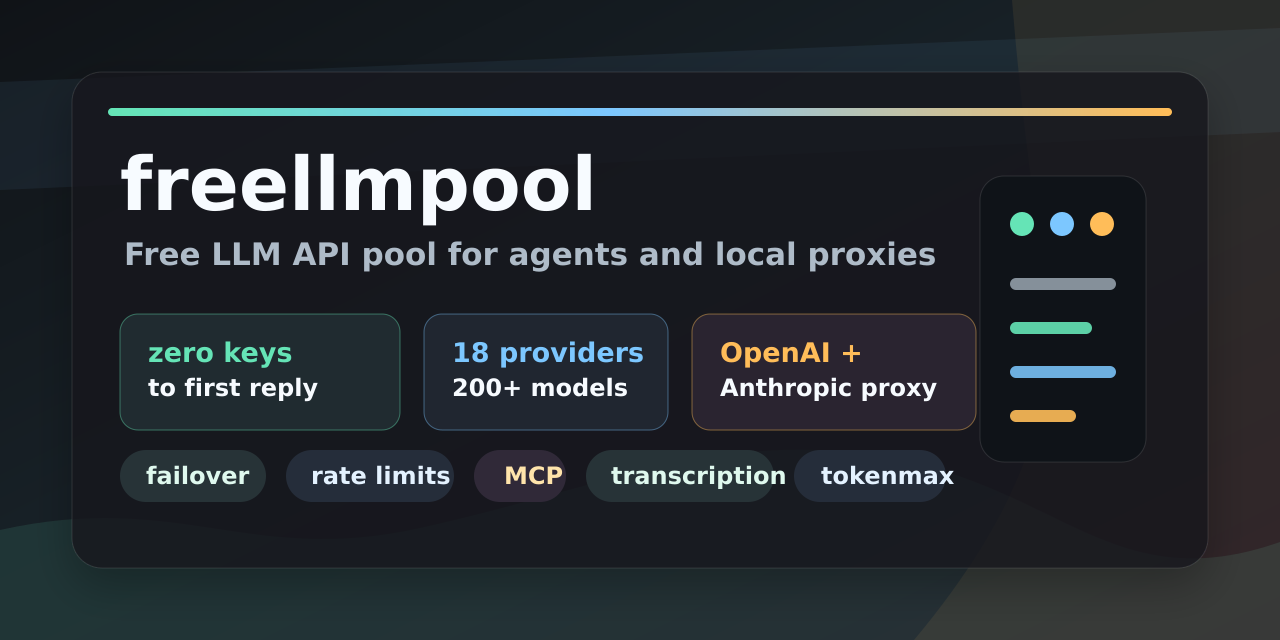
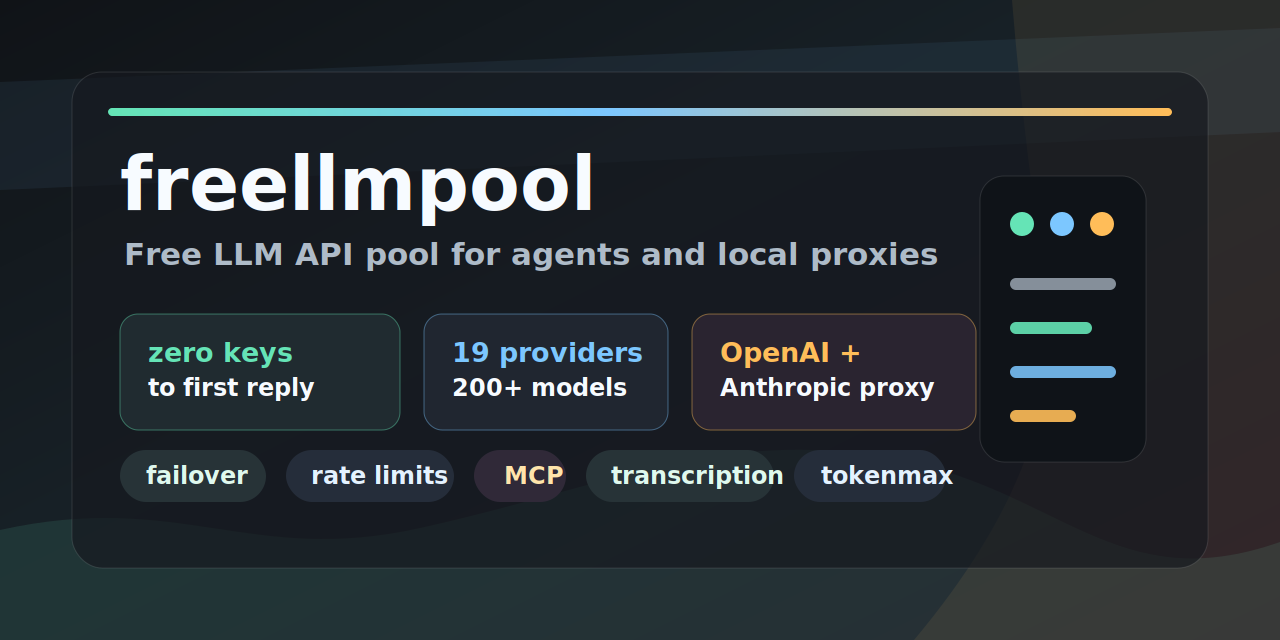
Audit and refresh free provider catalog

diff --git a/docs/index.html b/docs/index.html
@@ -3,11 +3,11 @@
 <head>
 <meta charset="utf-8">
 <meta name="viewport" content="width=device-width, initial-scale=1">
-<title>freellmpool — free OpenAI-compatible LLM API gateway (pool 18 free tiers, no key)</title>
-<meta name="description" content="freellmpool pools the free tiers of 18 LLM providers (Groq, Cerebras, NVIDIA, Gemini, OpenRouter, Cloudflare, Mistral, Cohere and more) behind one OpenAI-compatible endpoint. Free, open-source, pip-installable; works with no API key. CLI, Python library, local proxy, and MCP server with automatic failover.">
+<title>freellmpool — free OpenAI-compatible LLM API gateway (pool 19 free tiers, no key)</title>
+<meta name="description" content="freellmpool pools the free tiers of 19 LLM providers (Groq, Cerebras, NVIDIA, Gemini, OpenRouter, Cloudflare, Mistral, Cohere and more) behind one OpenAI-compatible endpoint. Free, open-source, pip-installable; works with no API key. CLI, Python library, local proxy, and MCP server with automatic failover.">
 <link rel="canonical" href="https://0xzr.github.io/freellmpool/">
 <meta property="og:title" content="freellmpool — free OpenAI-compatible LLM API gateway">
-<meta property="og:description" content="Pool the free tiers of 18 LLM providers behind one OpenAI-compatible endpoint. Free, open-source, keyless to start.">
+<meta property="og:description" content="Pool the free tiers of 19 LLM providers behind one OpenAI-compatible endpoint. Free, open-source, keyless to start.">
 <meta property="og:type" content="website">
 <meta property="og:url" content="https://0xzr.github.io/freellmpool/">
 <style>
@@ -39,14 +39,14 @@
 <div class="wrap">
 
 <h1>freellmpool</h1>
-<p class="tag">A free, open-source, OpenAI-compatible gateway that pools the free tiers of 18 LLM providers.</p>
+<p class="tag">A free, open-source, OpenAI-compatible gateway that pools the free tiers of 19 LLM providers.</p>
 
-<p class="lead"><strong>freellmpool is a free, open-source Python tool that pools the free tiers of 18 LLM
+<p class="lead"><strong>freellmpool is a free, open-source Python tool that pools the free tiers of 19 LLM
 providers — Groq, Cerebras, NVIDIA, Google Gemini, OpenRouter, Cloudflare, Mistral, Cohere and more —
 behind one OpenAI-compatible endpoint.</strong> It runs as a command-line tool, a Python library, a
 local proxy, and an <a href="https://modelcontextprotocol.io">MCP</a> server, with automatic failover
 when a provider is rate-limited and per-day quota tracking across tiers. Several providers (Pollinations,
-OVHcloud, and Kilo Gateway) need no API key, so <code>pip install freellmpool</code> answers immediately — no signup.
+OVHcloud, Kilo Gateway, and OpenCode Zen) need no API key, and LLM7 works without one, so <code>pip install freellmpool</code> answers immediately — no signup.
 The proxy speaks both the OpenAI and the Anthropic API, so existing apps and coding agents such as
 Codex, Claude Code, and aider run on pooled free models with no code changes.</p>
 
@@ -107,7 +107,7 @@ tiers — not a server you deploy and not a paid aggregator.</p>
 
 <h3>Is there a free, OpenAI-compatible LLM API gateway?</h3>
 <p>Yes — freellmpool is a free, open-source, MIT-licensed gateway that exposes one OpenAI-compatible
-endpoint backed by the free tiers of 18 providers. Install it with <code>pip install freellmpool</code>
+endpoint backed by the free tiers of 19 providers. Install it with <code>pip install freellmpool</code>
 and point any OpenAI client at the local proxy.</p>
 
 <h3>How do I use multiple free LLM APIs at once?</h3>
@@ -124,13 +124,15 @@ Run <code>freellmpool code claude</code> for the exact setup. (The Claude Code p
 text and tool use, no vision yet.)</p>
 
 <h3>Do I need an API key?</h3>
-<p>No key is required to start: Pollinations, OVHcloud, and Kilo Gateway work anonymously, so a fresh
-install answers immediately. Add free keys for the other providers to unlock more models and higher limits.</p>
+<p>No key is required to start: Pollinations, OVHcloud, Kilo Gateway, and OpenCode Zen work anonymously,
+and LLM7 is key-optional, so a fresh install answers immediately. Add free keys for the other providers to
+unlock more models and higher limits.</p>
 
 <h3>Which free LLM providers does it support?</h3>
-<p>18 providers: Pollinations, OVHcloud, LLM7, Groq, Cerebras, NVIDIA NIM, OpenRouter, Google Gemini,
-GitHub Models, Cloudflare Workers AI, Mistral, Cohere, SambaNova, Z.ai/Zhipu, Ollama Cloud,
-LongCat, Kilo Gateway (keyless), and Hugging Face (router) — 200+ live-validated chat models, 300+ cataloged models, plus free embeddings and audio transcription (Whisper).</p>
+<p>19 providers: Pollinations, OVHcloud, LLM7, Kilo Gateway, OpenCode Zen, Groq, Cerebras, NVIDIA NIM,
+OpenRouter, Google Gemini, GitHub Models, Cloudflare Workers AI, Mistral, Cohere, SambaNova, Z.ai/Zhipu,
+Ollama Cloud, LongCat, and Hugging Face (router) — 200+ live-validated chat models, 300+ cataloged models,
+plus free embeddings and audio transcription (Whisper).</p>
 
 <h3>How do I know which free providers are usable right now?</h3>
 <p>Run <code>freellmpool capacity status</code>: it labels each provider <code>healthy</code>,
@@ -170,7 +172,7 @@ Project: <a href="https://github.com/0xzr/freellmpool">github.com/0xzr/freellmpo
   "name": "freellmpool",
   "applicationCategory": "DeveloperApplication",
   "operatingSystem": "Linux, macOS, Windows",
-  "description": "Free, open-source OpenAI-compatible gateway that pools the free tiers of 18 LLM providers (Groq, Cerebras, NVIDIA, Gemini, OpenRouter, Cloudflare, Mistral, Cohere and more) behind one endpoint, with automatic failover. CLI, Python library, local proxy, and MCP server. Keyless to start.",
+  "description": "Free, open-source OpenAI-compatible gateway that pools the free tiers of 19 LLM providers (Groq, Cerebras, NVIDIA, Gemini, OpenRouter, Cloudflare, Mistral, Cohere and more) behind one endpoint, with automatic failover. CLI, Python library, local proxy, and MCP server. Keyless to start.",
   "url": "https://0xzr.github.io/freellmpool/",
   "downloadUrl": "https://pypi.org/project/freellmpool/",
   "softwareVersion": "0.11.4",

diff --git a/docs/free-llm-api-providers-list.html b/docs/free-llm-api-providers-list.html
@@ -7,7 +7,7 @@
 <meta name="description" content="A 2026 list of LLM providers with a free API tier — Groq, Cerebras, NVIDIA, Gemini, OpenRouter, Cloudflare, Mistral, Cohere and more — with whether they need an API key, how many models, and free-tier signals. Plus how to pool them all with freellmpool.">
 <link rel="canonical" href="https://0xzr.github.io/freellmpool/free-llm-api-providers-list.html">
 <meta property="og:title" content="Free LLM API providers list (2026)">
-<meta property="og:description" content="18 providers with free LLM API tiers, compared — and how to pool them all.">
+<meta property="og:description" content="19 providers with free LLM API tiers, compared — and how to pool them all.">
 <meta property="og:type" content="article">
 <style>
  :root{--bg:#0b0e14;--fg:#e6e6e6;--mut:#8a93a2;--card:#141925;--bd:#232a39;--ac:#6ea8ff}
@@ -27,8 +27,8 @@
 <p class="tag"><a href="https://0xzr.github.io/freellmpool/">freellmpool</a> › reference</p>
 <h1>Free LLM API providers (2026)</h1>
 
-<p class="lead"><strong>These 18 providers offer a free LLM API tier you can call today. Three need no API
-key at all. The table shows whether a key is required, roughly how many models the free tier exposes, and
+<p class="lead"><strong>These 19 providers offer a free LLM API tier you can call today. Four need no API
+key at all, and LLM7 is key-optional. The table shows whether a key is required, roughly how many models the free tier exposes, and
 a free-tier signal where known. The catch with using several is that each has its own SDK and limits — the
 open-source <a href="https://github.com/0xzr/freellmpool">freellmpool</a> pools all of them behind one
 OpenAI-compatible endpoint with failover, so you get their combined free capacity through one interface.</strong></p>
@@ -38,20 +38,21 @@ OpenAI-compatible endpoint with failover, so you get their combined free capacit
 <tr data-provider="pollinations"><td>Pollinations</td><td>No (keyless)</td><td class=num>2</td><td>Anonymous; rate-limited per IP</td></tr>
 <tr data-provider="ovh"><td>OVHcloud AI Endpoints</td><td>No (keyless)</td><td class=num>17</td><td>Anonymous tier (chat + embeddings + Whisper)</td></tr>
 <tr data-provider="llm7"><td>LLM7</td><td>Optional</td><td class=num>4</td><td>~60/hour without a token</td></tr>
-<tr data-provider="groq"><td>Groq</td><td>Yes (free)</td><td class=num>11</td><td>~1,000 req/day (per model)</td></tr>
+<tr data-provider="kilo"><td>Kilo Gateway</td><td>No (keyless)</td><td class=num>7</td><td>Anonymous; ~200 req/hour per IP</td></tr>
+<tr data-provider="opencode"><td>OpenCode Zen</td><td>No (keyless)</td><td class=num>3</td><td>Anonymous promotional free routes</td></tr>
+<tr data-provider="groq"><td>Groq</td><td>Yes (free)</td><td class=num>12</td><td>~1,000 req/day (per model)</td></tr>
 <tr data-provider="cerebras"><td>Cerebras</td><td>Yes (free)</td><td class=num>2</td><td>~14,400 req/day (large cap)</td></tr>
 <tr data-provider="gemini"><td>Google Gemini</td><td>Yes (free)</td><td class=num>3</td><td>~1,500 req/day</td></tr>
 <tr data-provider="openrouter"><td>OpenRouter</td><td>Yes (free)</td><td class=num>22</td><td>~1,000 req/day on :free models</td></tr>
-<tr data-provider="github"><td>GitHub Models</td><td>Yes (any PAT)</td><td class=num>26</td><td>~150 req/day</td></tr>
-<tr data-provider="nvidia"><td>NVIDIA NIM</td><td>Yes (free)</td><td class=num>50</td><td>Free credits / rate-limited</td></tr>
-<tr data-provider="cloudflare"><td>Cloudflare Workers AI</td><td>Yes (free)</td><td class=num>25</td><td>Daily Neuron allowance</td></tr>
-<tr data-provider="mistral"><td>Mistral</td><td>Yes (free)</td><td class=num>40</td><td>Free experimentation tier</td></tr>
+<tr data-provider="github"><td>GitHub Models</td><td>Yes (any PAT)</td><td class=num>25</td><td>~150 req/day</td></tr>
+<tr data-provider="nvidia"><td>NVIDIA NIM</td><td>Yes (free)</td><td class=num>52</td><td>Free credits / rate-limited</td></tr>
+<tr data-provider="cloudflare"><td>Cloudflare Workers AI</td><td>Yes (free)</td><td class=num>24</td><td>Daily Neuron allowance</td></tr>
+<tr data-provider="mistral"><td>Mistral</td><td>Yes (free)</td><td class=num>43</td><td>Free experimentation tier</td></tr>
 <tr data-provider="cohere"><td>Cohere</td><td>Yes (free)</td><td class=num>20</td><td>Trial keys, rate-limited</td></tr>
 <tr data-provider="sambanova"><td>SambaNova</td><td>Yes (free)</td><td class=num>0</td><td>Free tier, rate-limited</td></tr>
 <tr data-provider="zhipu"><td>Z.ai / Zhipu GLM</td><td>Yes (free)</td><td class=num>2</td><td>~1,000 req/day</td></tr>
-<tr data-provider="ollama"><td>Ollama Cloud</td><td>Yes (free)</td><td class=num>27</td><td>Qualitative free limits</td></tr>
+<tr data-provider="ollama"><td>Ollama Cloud</td><td>Yes (free)</td><td class=num>21</td><td>Qualitative free limits</td></tr>
 <tr data-provider="longcat"><td>LongCat (Meituan)</td><td>Yes (free)</td><td class=num>1</td><td>Free preview</td></tr>
-<tr data-provider="kilo"><td>Kilo Gateway</td><td>No (keyless)</td><td class=num>6</td><td>Anonymous; ~200 req/hour per IP</td></tr>
 <tr data-provider="huggingface"><td>Hugging Face (router)</td><td>Yes (free)</td><td class=num>8</td><td>~100K Inference credits/month</td></tr>
 </table>
 <p class="tag">* Enabled chat, embedding, and transcription routes in freellmpool's catalog; varies as tiers change.
@@ -74,13 +75,14 @@ freellmpool providers                                         # see which tiers 
 <h3>Which LLM providers have a free API tier?</h3>
 <p>As of 2026, free API tiers are offered by Groq, Cerebras, Google Gemini, NVIDIA, OpenRouter, GitHub
 Models, Cloudflare, Mistral, Cohere, SambaNova, Z.ai/Zhipu, Ollama Cloud, LongCat, LLM7, Pollinations,
-OVHcloud, Kilo Gateway, and Hugging Face. Pollinations, OVHcloud, and Kilo Gateway work with no API key.</p>
+OVHcloud, Kilo Gateway, OpenCode Zen, and Hugging Face. Pollinations, OVHcloud, Kilo Gateway, and
+OpenCode Zen work with no API key.</p>
 <h3>What's the free LLM API with the highest limit?</h3>
 <p>Among the common free tiers, Cerebras advertises one of the largest daily request caps, and providers
 like Groq and OpenRouter offer roughly a thousand requests/day on free models. Limits change often — pool
 several with freellmpool so a single cap isn't a bottleneck.</p>
 
-<p class="meta">Part of <a href="https://github.com/0xzr/freellmpool">freellmpool</a> (MIT, free, open source). Data from the freellmpool catalog. Updated 2026-06-12.</p>
+<p class="meta">Part of <a href="https://github.com/0xzr/freellmpool">freellmpool</a> (MIT, free, open source). Data from the freellmpool catalog. Updated 2026-06-17.</p>
 </div>
 <script type="application/ld+json">{"@context": "https://schema.org", "@type": "BreadcrumbList", "itemListElement": [{"@type": "ListItem", "position": 1, "name": "freellmpool", "item": "https://0xzr.github.io/freellmpool/"}, {"@type": "ListItem", "position": 2, "name": "Free LLM API providers list (2026)", "item": "https://0xzr.github.io/freellmpool/free-llm-api-providers-list.html"}]}</script>
 </body></html>

diff --git a/docs/run-coding-agents-on-free-models.html b/docs/run-coding-agents-on-free-models.html
@@ -4,7 +4,7 @@
 <meta charset="utf-8">
 <meta name="viewport" content="width=device-width, initial-scale=1">
 <title>How to run Claude Code, Codex, or Aider on free LLM models (no API bill)</title>
-<meta name="description" content="A step-by-step guide to running Claude Code, OpenAI Codex, Aider, Cline, and Cursor on free LLM tiers using freellmpool — a local OpenAI- and Anthropic-compatible proxy that pools 18 free providers. Keyless to start.">
+<meta name="description" content="A step-by-step guide to running Claude Code, OpenAI Codex, Aider, Cline, and Cursor on free LLM tiers using freellmpool — a local OpenAI- and Anthropic-compatible proxy that pools 19 free providers. Keyless to start.">
 <link rel="canonical" href="https://0xzr.github.io/freellmpool/run-coding-agents-on-free-models.html">
 <meta property="og:title" content="Run Claude Code, Codex, or Aider on free LLM models">
 <meta property="og:description" content="Point your coding agent at one local proxy and run it on pooled free LLM tiers — no code changes, keyless to start.">
@@ -39,9 +39,9 @@
 <p class="lead"><strong>You can run Claude Code, OpenAI Codex, Aider, Cline, Continue, or Cursor on
 free LLM tiers by pointing them at a local proxy that speaks the OpenAI and Anthropic APIs. The
 open-source tool <a href="https://github.com/0xzr/freellmpool">freellmpool</a> is that proxy: it pools
-the free tiers of 18 providers (Groq, Cerebras, NVIDIA, Gemini, OpenRouter, Cloudflare, Mistral, Cohere
-and more) behind one endpoint, with automatic failover. Three providers need no API key, so you can start
-for free in under a minute and change no code in the agent.</strong></p>
+the free tiers of 19 providers (Groq, Cerebras, NVIDIA, Gemini, OpenRouter, Cloudflare, Mistral, Cohere
+and more) behind one endpoint, with automatic failover. Several providers need no API key, so you can
+start for free in under a minute and change no code in the agent.</strong></p>
 
 <h2>1. Install and start the proxy</h2>
 <pre><code>pip install freellmpool
@@ -96,7 +96,7 @@ own free tiers; don't abuse them.</p>
 Cline, Continue, Cursor, OpenCode, and more.</p>
 
 <p class="meta">Part of <a href="https://github.com/0xzr/freellmpool">freellmpool</a> (MIT, free, open
-source). Updated 2026-06-03.</p>
+source). Updated 2026-06-17.</p>
 
 </div>
 <script type="application/ld+json">{"@context": "https://schema.org", "@type": "BreadcrumbList", "itemListElement": [{"@type": "ListItem", "position": 1, "name": "freellmpool", "item": "https://0xzr.github.io/freellmpool/"}, {"@type": "ListItem", "position": 2, "name": "How to run Claude Code, Codex, or Aider on free LLM models (no API bill)", "item": "https://0xzr.github.io/freellmpool/run-coding-agents-on-free-models.html"}]}</script>

diff --git a/docs/run-opencode-on-free-models.html b/docs/run-opencode-on-free-models.html
@@ -4,7 +4,7 @@
 <meta charset="utf-8">
 <meta name="viewport" content="width=device-width, initial-scale=1">
 <title>Run OpenCode on free LLM models (no API bill) — with a live in-editor dashboard</title>
-<meta name="description" content="Run the OpenCode coding agent on free LLM tiers with freellmpool — a local OpenAI-compatible proxy that pools 18 free providers. Includes an embedded TUI dashboard, per-request quality routing, and usage tools. Keyless to start.">
+<meta name="description" content="Run the OpenCode coding agent on free LLM tiers with freellmpool — a local OpenAI-compatible proxy that pools 19 free providers. Includes an embedded TUI dashboard, per-request quality routing, and usage tools. Keyless to start.">
 <link rel="canonical" href="https://0xzr.github.io/freellmpool/run-opencode-on-free-models.html">
 <meta property="og:title" content="Run OpenCode on free LLM models — with a live dashboard">
 <meta property="og:description" content="Point OpenCode at one local proxy and code on pooled free LLM tiers — with an embedded dashboard, quality routing, and usage tools. Keyless to start.">
@@ -39,9 +39,9 @@
 <p class="lead"><strong>You can run the <a href="https://opencode.ai">OpenCode</a> coding agent on
 free LLM tiers — no API bill — by pointing it at a local proxy that speaks the OpenAI API. The
 open-source tool <a href="https://github.com/0xzr/freellmpool">freellmpool</a> is that proxy: it pools
-the free tiers of 18 providers (Groq, Cerebras, NVIDIA, Gemini, OpenRouter, Cloudflare, Mistral, Cohere
-and more) behind one endpoint, with automatic failover. Three providers need no API key, so you can start
-for free in under a minute. It also ships an OpenCode plugin with a <strong>live dashboard, quality
+the free tiers of 19 providers (Groq, Cerebras, NVIDIA, Gemini, OpenRouter, Cloudflare, Mistral, Cohere
+and more) behind one endpoint, with automatic failover. Several providers need no API key, so you can
+start for free in under a minute. It also ships an OpenCode plugin with a <strong>live dashboard, quality
 routing, and usage tools</strong> built in.</strong></p>
 
 <h2>1. Install and start the proxy</h2>
@@ -114,7 +114,7 @@ for local and custom models. You're using the LLM providers' own free tiers; don
 <code>freellmpool_status</code> tool, or curl the proxy's <code>/status</code> endpoint.</p>
 
 <p class="meta">Part of <a href="https://github.com/0xzr/freellmpool">freellmpool</a> (MIT, free, open
-source). Updated 2026-06-07.</p>
+source). Updated 2026-06-17.</p>
 
 </div>
 <script type="application/ld+json">{"@context": "https://schema.org", "@type": "BreadcrumbList", "itemListElement": [{"@type": "ListItem", "position": 1, "name": "freellmpool", "item": "https://0xzr.github.io/freellmpool/"}, {"@type": "ListItem", "position": 2, "name": "How to run OpenCode on free LLM models", "item": "https://0xzr.github.io/freellmpool/run-opencode-on-free-models.html"}]}</script>

diff --git a/docs/use-multiple-free-llm-apis.html b/docs/use-multiple-free-llm-apis.html
@@ -29,8 +29,8 @@
 OpenRouter, Cloudflare and more — pool them behind one endpoint so each request goes to a provider you
 have capacity on and fails over when one is rate-limited. The open-source <a
 href="https://github.com/0xzr/freellmpool">freellmpool</a> does exactly this: one OpenAI-compatible
-interface over 18 providers, with per-day quota tracking so you drain each tier evenly. Three providers are
-keyless, so you can start with no signup.</strong></p>
+interface over 19 providers, with per-day quota tracking so you drain each tier evenly. Several providers
+are keyless, so you can start with no signup.</strong></p>
 
 <h2>Why combine them</h2>
 <ul>
@@ -69,7 +69,7 @@ per-model balancing.</p>
 each request to one you have capacity on and fails over automatically. You can also pin a provider per
 call with <code>-p</code>.</p>
 <h3>Do I need an API key for every provider?</h3>
-<p>No. Three providers are keyless so freellmpool works immediately; add keys for the others over time to
+<p>No. Several providers are keyless so freellmpool works immediately; add keys for the others over time to
 grow your total free capacity.</p>
 
 <p class="meta">Part of <a href="https://github.com/0xzr/freellmpool">freellmpool</a> (MIT, free, open source). Updated 2026-06-03.</p>

diff --git a/docs/free-alternative-to-openrouter.html b/docs/free-alternative-to-openrouter.html
@@ -38,7 +38,7 @@ freellmpool</code>).</strong></p>
 <tr><th></th><th>OpenRouter</th><th>freellmpool</th></tr>
 <tr><td>Cost</td><td>Pay per token (some free models)</td><td>Free — pools providers' free tiers</td></tr>
 <tr><td>Hosting</td><td>Hosted service</td><td>Local, open source (MIT)</td></tr>
-<tr><td>Keyless start</td><td>No (account + key)</td><td>Yes (3 keyless providers)</td></tr>
+<tr><td>Keyless start</td><td>No (account + key)</td><td>Yes (4 keyless providers, plus LLM7 key-optional)</td></tr>
 <tr><td>Interface</td><td>API</td><td>CLI + Python library + proxy + MCP server</td></tr>
 <tr><td>Failover</td><td>Yes</td><td>Yes</td></tr>
 </table>
@@ -62,7 +62,7 @@ freellmpool proxy                                    # OpenAI + Anthropic compat
 open-source path, freellmpool pools the LLM providers' own free tiers behind one OpenAI-compatible
 endpoint and is keyless to start.</p>
 <h3>Can freellmpool use OpenRouter too?</h3>
-<p>Yes — OpenRouter is one of the 18 providers freellmpool can pool, so its free models become part of
+<p>Yes — OpenRouter is one of the 19 providers freellmpool can pool, so its free models become part of
 the failover pool alongside Groq, Cerebras, Gemini and the rest.</p>
 
 <p class="meta">Part of <a href="https://github.com/0xzr/freellmpool">freellmpool</a> (MIT, free, open source). Updated 2026-06-03.</p>

diff --git a/docs/best-free-llm-api-gateway.html b/docs/best-free-llm-api-gateway.html
@@ -27,7 +27,7 @@
 <h1>Best free LLM API gateway (2026)</h1>
 
 <p class="lead"><strong>For using free LLM tiers specifically, the best free, open-source gateway is
-<a href="https://github.com/0xzr/freellmpool">freellmpool</a>: it pools the free tiers of 18 providers
+<a href="https://github.com/0xzr/freellmpool">freellmpool</a>: it pools the free tiers of 19 providers
 behind one OpenAI-compatible endpoint, installs with <code>pip</code>, works with no API key to start,
 and ships as a CLI, a Python library, a local proxy, and an MCP server. LiteLLM is the best choice if you
 bring your own keys and want a mature multi-provider SDK; OpenRouter is best if you want one paid bill for

diff --git a/docs/capacity-management.html b/docs/capacity-management.html
@@ -43,7 +43,7 @@
 daily caps fill up. <a href="https://github.com/0xzr/freellmpool">freellmpool</a> ships capacity tools
 that tell you, locally, which of your free providers are usable <em>right now</em>, which are near their
 quota, and which keys to add next.</strong> freellmpool is a free, open-source tool that pools the free
-tiers of 18 LLM providers behind one OpenAI-compatible endpoint; these commands keep that pool healthy.</p>
+tiers of 19 LLM providers behind one OpenAI-compatible endpoint; these commands keep that pool healthy.</p>
 
 <pre><code>pip install freellmpool
 freellmpool capacity status --target 5</code></pre>

diff --git a/docs/free-claude-api.html b/docs/free-claude-api.html
@@ -61,7 +61,7 @@ is bounded by the free-tier models, and the path is experimental (text and tool 
 <h2>Why use freellmpool for this</h2>
 <ul>
 <li>It's the only part you install — one <code>pip</code>, no key to start.</li>
-<li>Failover across 18 providers, so a single tier's rate limit doesn't stop you.</li>
+<li>Failover across 19 providers, so a single tier's rate limit doesn't stop you.</li>
 <li>The same proxy also serves the OpenAI API, so OpenAI-SDK tools work too.</li>
 </ul>
 

diff --git a/docs/free-openai-api-alternatives.html b/docs/free-openai-api-alternatives.html
@@ -62,7 +62,7 @@ summarization, and everyday coding, not the hardest reasoning. Daily limits rese
 <h2>FAQ</h2>
 <h3>Is there a free OpenAI API key?</h3>
 <p>OpenAI itself doesn't offer a free API tier, but several other providers do, and freellmpool lets you
-use them through the same OpenAI-compatible interface — three of them (Pollinations, OVHcloud, Kilo Gateway) need no key
+use them through the same OpenAI-compatible interface — four of them (Pollinations, OVHcloud, Kilo Gateway, OpenCode Zen) need no key
 at all, so <code>pip install freellmpool &amp;&amp; freellmpool ask "..."</code> works immediately.</p>
 <h3>Can I keep my existing OpenAI code?</h3>
 <p>Yes. Point <code>OPENAI_BASE_URL</code> at the local freellmpool proxy; the SDK calls are unchanged and

diff --git a/tests/test_faq.py b/tests/test_faq.py
@@ -15,7 +15,7 @@ def test_faq_lists_every_builtin_chat_provider():
 
     faq = (ROOT / "FAQ.md").read_text(encoding="utf-8")
 
-    assert len(providers) == 18
+    assert len(providers) == 19
     for provider in providers:
         assert f"`{provider['id']}`" in faq
 
@@ -68,8 +68,8 @@ def test_demo_assets_are_well_formed_and_current():
     assert "TOKENMAXXING" in demo
     assert "--animation-duration: 8500ms" in demo
     assert f"freellmpool-{__version__}" in demo
-    assert "18 providers, 236 models" in demo
-    assert "18 free tiers" in demo
+    assert "19 providers, 238 models" in demo
+    assert "19 free tiers" in demo
     assert "200+" in results
-    assert "18 providers" in results
+    assert "19 providers" in results
     assert "$0" in results

diff --git a/tests/test_github_discovery.py b/tests/test_github_discovery.py
@@ -66,7 +66,7 @@ def test_github_discovery_description_stays_within_about_limit():
     assert len(description) == expected_len
     assert len(description) <= 120
     assert "zero keys to start" in description
-    assert "18 LLM providers" in description
+    assert "19 LLM providers" in description
     assert "failover" in description
 
 
@@ -94,7 +94,7 @@ def test_social_preview_svg_matches_github_preview_requirements():
 
     for text in (
         "zero keys",
-        "18 providers",
+        "19 providers",
         "200+ models",
         "OpenAI +",
         "Anthropic proxy",